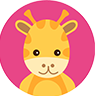
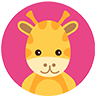
iconfont-tiaozheng

diff --git a/static/css/m_index.css b/static/css/m_index.css
@@ -184,7 +184,7 @@ header a img {
 	border: 1px solid #e4e4e4;
 }
 .mui-table-view-cell .li-info {
-	width: 15rem;
+	width: 15.8rem;
 	float: right;
 	height: auto;
 }
@@ -236,7 +236,7 @@ h6 + .iconfont {
 }
 .li-info .s3 {
 	float: left;
-	width: 11.4rem;
+	width: 12rem;
 }
 .li-info .s2 {
 	float: left;
@@ -266,6 +266,7 @@ h6 + .iconfont {
 }
 .icon-yanjing:before {
 	content: "\e601";
+	top: -0.2rem;
 }
 /*底部导航部分*/
 footer {
@@ -282,8 +283,18 @@ footer li {
 }
 footer .iconfont {
 	font-size: 2.4rem;
-	line-height: 1.2;
+	line-height: 3rem;
 	color: #8f8f8f;
+}
+footer li:first-child .iconfont {
+	position: relative;
+	font-size: 2.2rem;
+	top: 0.2rem;
+}
+footer li:last-child .iconfont {
+	position: relative;
+	top: 0.2rem;
+	font-size: 2.8rem;
 }
 .on .iconfont {
 	color: #f08519;

diff --git a/static/css/m_task.css b/static/css/m_task.css
@@ -77,6 +77,7 @@ header a img {
 }
 .icon-yanjing:before {
 	content: "\e601";
+	margin-top: -0.2rem;
 }
 /*底部导航部分*/
 footer {
@@ -93,8 +94,18 @@ footer li {
 }
 footer .iconfont {
 	font-size: 2.4rem;
-	line-height: 1.2;
+	line-height: 3rem;
 	color: #8f8f8f;
+}
+footer li:first-child .iconfont {
+	position: relative;
+	font-size: 2.2rem;
+	top: 0.2rem;
+}
+footer li:last-child .iconfont {
+	position: relative;
+	top: 0.2rem;
+	font-size: 2.8rem;
 }
 .on .iconfont {
 	color: #f08519;

diff --git a/static/css/m_hongbao.css b/static/css/m_hongbao.css
@@ -109,7 +109,7 @@ body {
 	border: 1px solid #e4e4e4;
 }
 .mui-table-view-cell .li-info {
-	width: 15rem;
+	width: 15.8rem;
 	float: right;
 	height: auto;
 }
@@ -153,7 +153,7 @@ body {
 }
 .li-info .s3 {
 	float: left;
-	width: 11.4rem;
+	width: 12rem;
 }
 .li-info .s2 {
 	float: left;
@@ -184,4 +184,5 @@ body {
 }
 .icon-yanjing:before {
 	content: "\e601";
+	top: -0.2rem;
 }

diff --git a/static/css/m_account_index.css b/static/css/m_account_index.css
@@ -126,8 +126,18 @@ footer li {
 }
 footer .iconfont {
 	font-size: 2.4rem;
-	line-height: 1.2;
+	line-height: 3rem;
 	color: #8f8f8f;
+}
+footer li:first-child .iconfont {
+	position: relative;
+	font-size: 2.2rem;
+	top: 0.2rem;
+}
+footer li:last-child .iconfont {
+	position: relative;
+	top: 0.2rem;
+	font-size: 2.8rem;
 }
 .on .iconfont {
 	color: #f08519;

diff --git a/static/css/m_finance.css b/static/css/m_finance.css
@@ -108,8 +108,18 @@ footer li {
 }
 footer .iconfont {
 	font-size: 2.4rem;
-	line-height: 1.2;
+	line-height: 3rem;
 	color: #8f8f8f;
+}
+footer li:first-child .iconfont {
+	position: relative;
+	font-size: 2.2rem;
+	top: 0.2rem;
+}
+footer li:last-child .iconfont {
+	position: relative;
+	top: 0.2rem;
+	font-size: 2.8rem;
 }
 .on .iconfont {
 	color: #f08519;

diff --git a/static/css/m_youhuiquan.css b/static/css/m_youhuiquan.css
@@ -22,7 +22,7 @@
 	border: 1px solid #e4e4e4;
 }
 .mui-table-view-cell .li-info {
-	width: 15rem;
+	width: 15.8rem;
 	float: right;
 	height: auto;
 }
@@ -66,7 +66,7 @@
 }
 .li-info .s3 {
 	float: left;
-	width: 11.4rem;
+	width: 12rem;
 }
 .li-info .s2 {
 	float: left;
@@ -96,4 +96,5 @@
 }
 .icon-yanjing:before {
 	content: "\e601";
+	top: -0.2rem;
 }

diff --git a/static/css/m_baoyou.css b/static/css/m_baoyou.css
@@ -104,7 +104,7 @@
  	font-family:"wafuli-iconfont" !important;
  	font-style:normal;
 	margin-right: 0.2rem;
-	font-size: 1rem;
+	font-size: 1.4rem;
 	color: rgba(0,135,223,0.5);
 	-webkit-font-smoothing: antialiased;
   -webkit-text-stroke-width: 0.2px;
